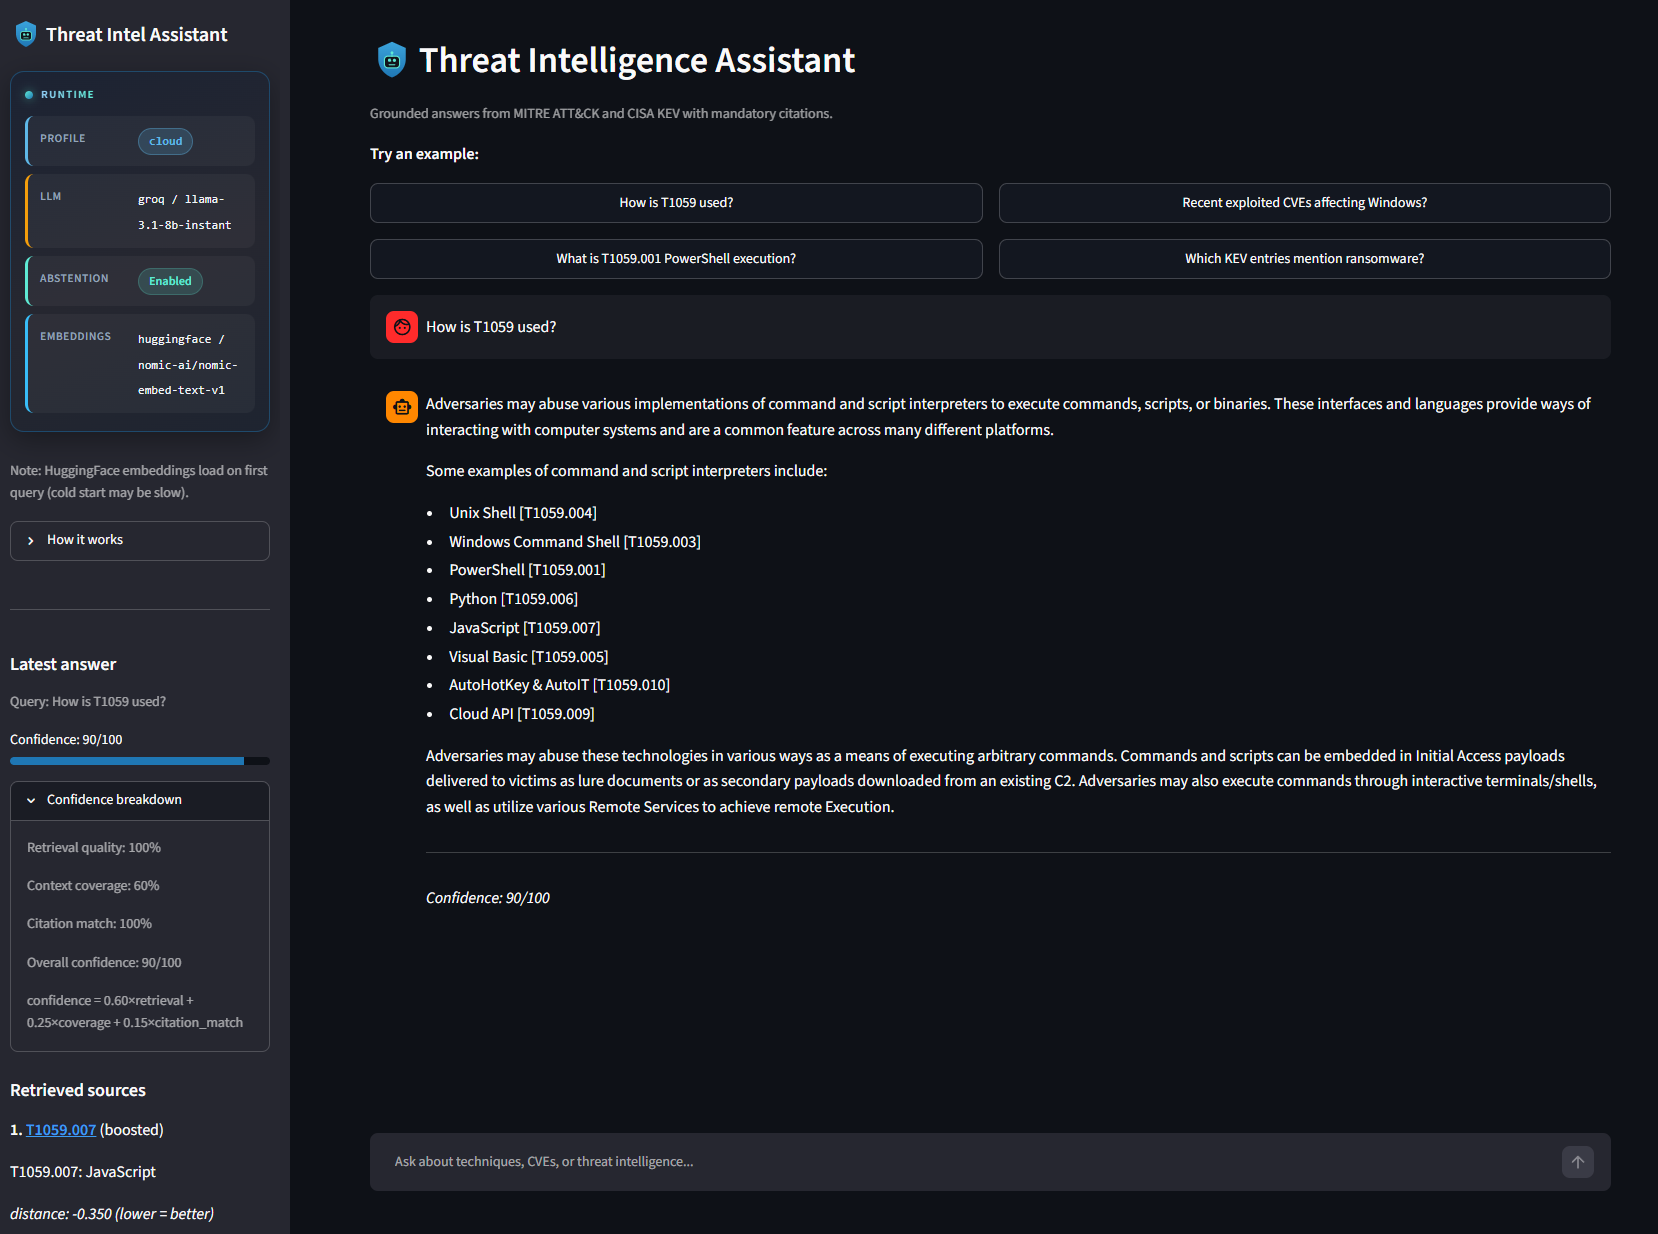
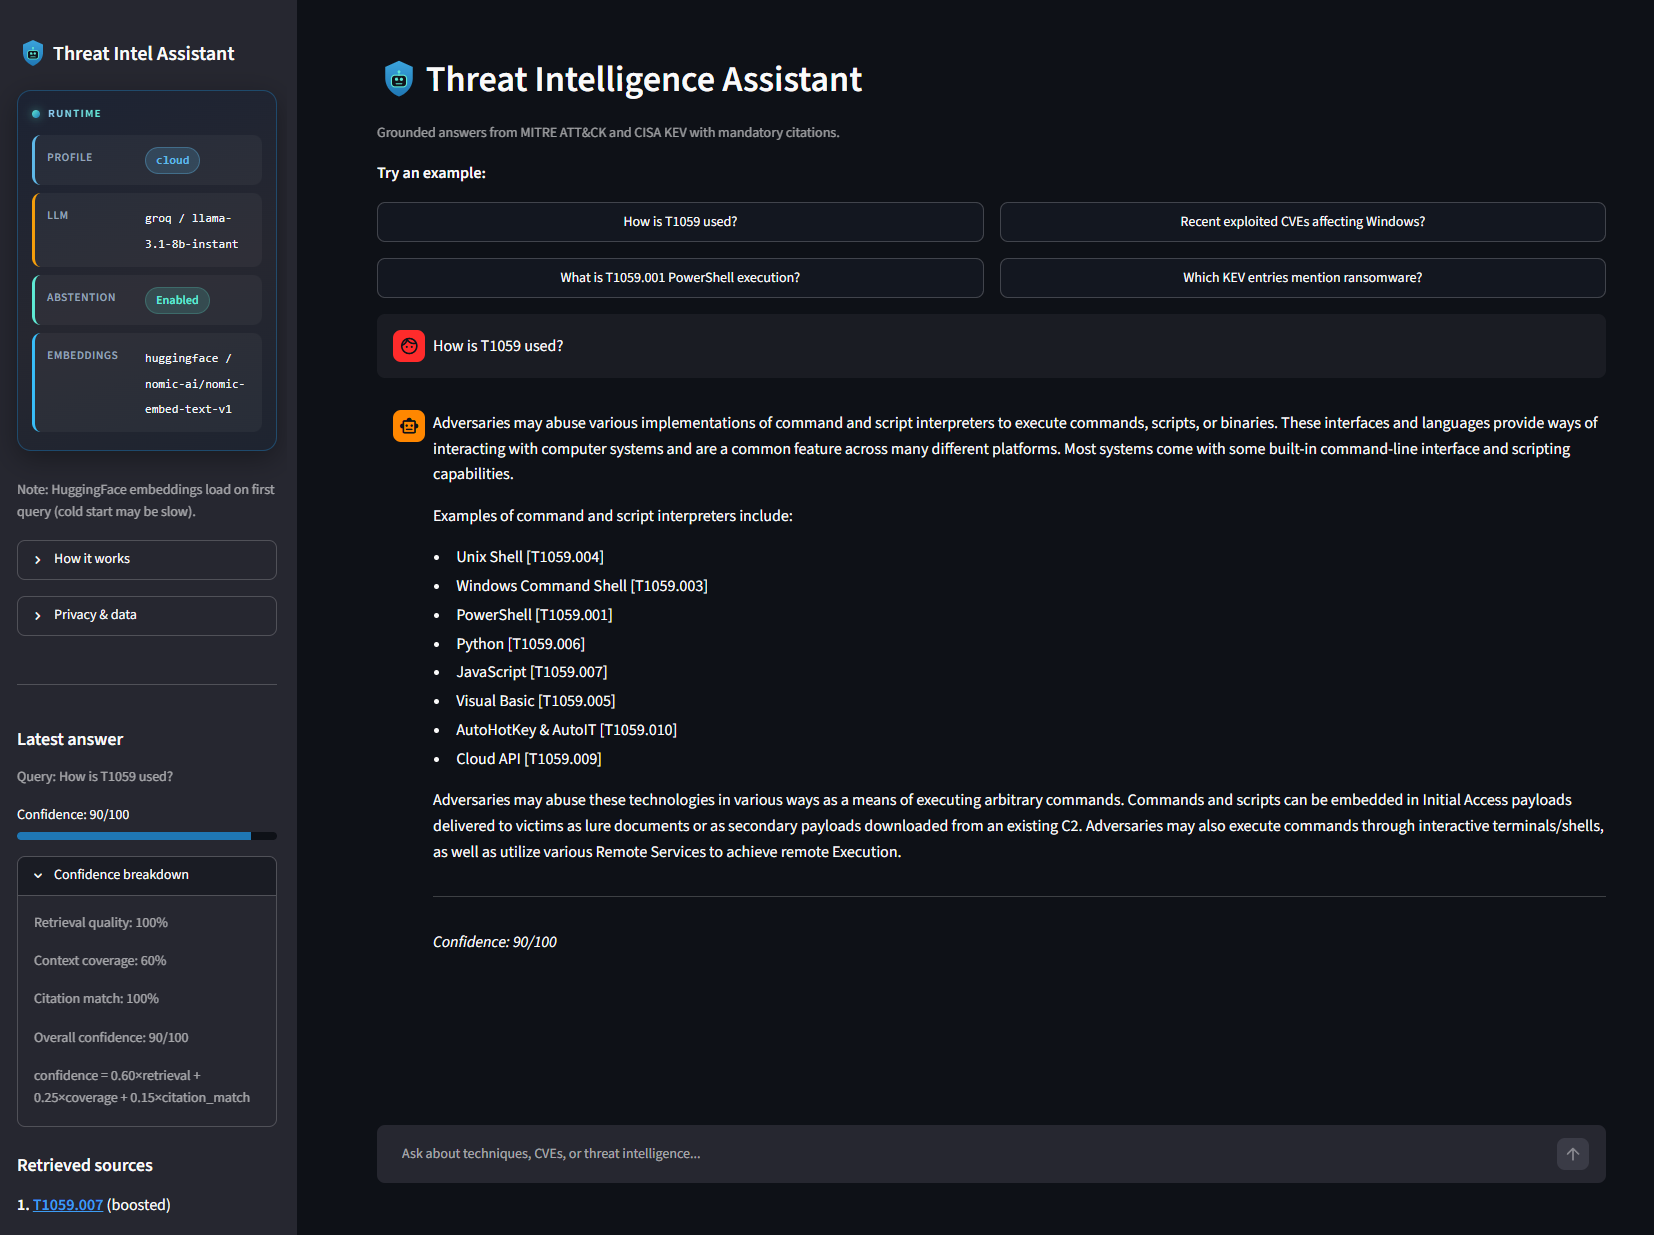
Add privacy disclosures and README badges (v1.1.1)

diff --git a/app.py b/app.py
@@ -218,10 +218,8 @@ def _render_sidebar_how_it_works(settings, manifest: dict | None) -> None:
             "from retrieved sources. **Abstention:** weak evidence → no speculative answer."
         )
         if settings.is_cloud():
-            st.markdown(
-                "**Cloud privacy:** your question and retrieved context are sent to "
-                "**Groq** for inference. No API key is required from you — the hosted "
-                "app is configured by the maintainer."
+            st.caption(
+                "Cloud profile: see **Privacy & data** below for where your questions are sent."
             )
             st.caption("If the service is rate-limited, wait a moment and try again.")
         if manifest:
@@ -233,6 +231,39 @@ def _render_sidebar_how_it_works(settings, manifest: dict | None) -> None:
                 f"{counts.get('mitre_software', 0)} software, "
                 f"{counts.get('cisa_kev', 0)} KEV entries."
             )
+
+
+def _render_sidebar_privacy(settings) -> None:
+    """Data-flow disclosure for cloud demo and local/Ollama deployments."""
+    with st.sidebar.expander("Privacy & data", expanded=False):
+        st.markdown(
+            "This app is **decision support**, not a certified data-processing platform. "
+            "Understand where your input may go:"
+        )
+        if settings.is_cloud():
+            st.markdown(
+                "- **Questions & follow-ups** → **Groq** (answer generation)  \n"
+                "- **Query text** → **HuggingFace** (`nomic-embed-text-v1` embeddings)  \n"
+                "- **Retrieved MITRE/KEV chunks** → included in the Groq prompt  \n"
+                "- **Session chat** → Streamlit memory only; not stored in a project database"
+            )
+            st.markdown(
+                "**Public demo:** Do not submit classified data, credentials, PII, or live "
+                "incident details you cannot share with Groq or HuggingFace. Prefer "
+                "example queries or synthetic analyst-style questions."
+            )
+            st.caption("No API key is required from you — the hosted app is configured by the maintainer.")
+        else:
+            st.markdown(
+                "- **LLM answers** → **Ollama** on your network (when configured)  \n"
+                "- **Query embeddings** → Ollama or HuggingFace per your `.env`  \n"
+                "- **Retrieved chunks** → sent to your local LLM only  \n"
+                "- **Session chat** → Streamlit memory only; not stored in a project database"
+            )
+        st.caption(
+            "Streamlit Cloud and cloud API providers may retain operational logs under "
+            "their own policies. Full table: README Privacy & data section on GitHub."
+        )
 
 
 def _render_sidebar_llm_error() -> None:
@@ -458,6 +489,7 @@ def main() -> None:
     )
     _render_sidebar_config(settings)
     _render_sidebar_how_it_works(settings, manifest)
+    _render_sidebar_privacy(settings)
     _render_sidebar_llm_error()
     st.sidebar.divider()
     _render_sidebar_response(st.session_state.last_response)

diff --git a/README.md b/README.md
@@ -8,9 +8,13 @@
 [![Release](https://img.shields.io/github/v/release/rvong65/threat-intelligence-assistant?label=release)](https://github.com/rvong65/threat-intelligence-assistant/releases)
 [![CI](https://github.com/rvong65/threat-intelligence-assistant/actions/workflows/tests.yml/badge.svg)](https://github.com/rvong65/threat-intelligence-assistant/actions/workflows/tests.yml)
 [![License: MIT](https://img.shields.io/badge/License-MIT-yellow.svg)](LICENSE)
+[![Docker](https://img.shields.io/badge/Docker-Groq%20%7C%20Ollama-2496ED?style=flat-square&logo=docker&logoColor=white)](https://github.com/rvong65/threat-intelligence-assistant#docker)
+[![RAG](https://img.shields.io/badge/RAG-Grounded%20Citations-1f77b4?style=flat-square&logo=langchain&logoColor=white)](https://github.com/rvong65/threat-intelligence-assistant#features)
 [![Streamlit](https://static.streamlit.io/badges/streamlit_badge_black_white.svg)](https://threat-intelligence-rag-assistant.streamlit.app/)
 
 A **retrieval-augmented generation (RAG)** chat application that helps security analysts explore **MITRE ATT&CK** and **CISA Known Exploited Vulnerabilities (KEV)** with **grounded, cited, explainable** answers — not open-web speculation.
+
+> **Privacy (cloud demo):** When you ask a question, the text you submit is sent to **third-party services** (Groq for answer generation; HuggingFace for query embeddings on the public demo). Do not enter classified material, credentials, or live incident details you cannot share with external APIs. See [Privacy & data handling](#privacy-data).
 
 ---
 
@@ -32,7 +36,7 @@ A **retrieval-augmented generation (RAG)** chat application that helps security 
 | 🏗 [Architecture & Design Choices](#architecture-design-choices) | System design summary |
 | ↳ [Full architecture doc](docs/architecture.md) | Detailed system design (Mermaid) |
 | ↳ [Development Journey](#development-journey) | Build timeline diagram |
-| 🛡 [Safety Considerations](#safety-considerations) | Ethics and guardrails |
+| 🛡 [Safety Considerations](#safety-considerations) | Ethics, guardrails, and data privacy |
 | 🔄 [CI/CD](#cicd) | GitHub Actions, Docker CI, Streamlit deploy |
 | 📈 [Project Status & Build Log](#project-status) | Milestone checklist |
 | 📁 [Repository Layout](#repository-layout) | File tree |
@@ -52,6 +56,7 @@ A **retrieval-augmented generation (RAG)** chat application that helps security 
 
 **Before you open the app:**
 - **Cold start:** This app runs on Streamlit Community Cloud and may go to sleep after inactivity. If you see **“Zzzz — This app has gone to sleep due to inactivity”**, click **“Yes, get this app back up!”** to wake it — anyone can do this; you don’t need to contact the maintainer. Startup may take a minute after you click.
+- **Privacy:** The public demo uses a **cloud LLM (Groq)** and **HuggingFace embeddings**. Text you submit leaves your browser for the hosted app and is forwarded to those providers along with retrieved MITRE/KEV context. Use **general or synthetic threat-intel questions only** — not classified data, credentials, or live incident details you cannot share externally. See [Privacy & data handling](#privacy-data).
 
 **Screenshot:**
 
@@ -267,7 +272,8 @@ The codebase supports *optional* CVE detail enrichment via the [NIST NVD API](ht
 
 | Version | Highlights | Release |
 |---------|------|------------|
-| **[v1.1.0](https://github.com/rvong65/threat-intelligence-assistant/releases/tag/v1.1.0)** | Docker + compose, architecture docs, SVG assets, CHANGELOG, Docker CI | [Releases](https://github.com/rvong65/threat-intelligence-assistant/releases) · [CHANGELOG](CHANGELOG.md#110---2026-06-23) |
+| **[v1.1.1](https://github.com/rvong65/threat-intelligence-assistant/releases/tag/v1.1.1)** | Privacy & data disclosures (README + Streamlit sidebar) | [Releases](https://github.com/rvong65/threat-intelligence-assistant/releases/tag/v1.1.1) · [CHANGELOG](CHANGELOG.md#111---2026-06-23) |
+| **[v1.1.0](https://github.com/rvong65/threat-intelligence-assistant/releases/tag/v1.1.0)** | Docker + compose, architecture docs, SVG assets, CHANGELOG, Docker CI | [Releases](https://github.com/rvong65/threat-intelligence-assistant/releases/tag/v1.1.0) · [CHANGELOG](CHANGELOG.md#110---2026-06-23) |
 | **[v1.0.0](https://github.com/rvong65/threat-intelligence-assistant/releases/tag/v1.0.0)** | First tagged release — RAG MVP live on Streamlit Cloud (public since 2026-06-12) | Public since 2026-06-12; tagged 2026-06-18 · [CHANGELOG](CHANGELOG.md#100---2026-06-18) |
 
 Full notes: [CHANGELOG.md](CHANGELOG.md)
@@ -328,10 +334,31 @@ This is a **decision-support** tool, not autonomous threat hunting or incident r
 | **Humility** | Low confidence → disclaimer or hard abstention |
 | **Scope control** | Query guard rejects non–threat-intel prompts |
 | **Transparency** | Sidebar shows retrieved chunks, distances, and confidence formula |
-| **Privacy (cloud)** | Questions + retrieved context sent to Groq for inference; no user API keys |
+| **Privacy (cloud)** | Questions + retrieved MITRE/KEV context sent to Groq; query embeddings via HuggingFace — see [Privacy & data](#privacy-data) |
 | **Known gap** | Long group technique lists vs top-k chunks → citation warnings (documented limitation) |
 
 Always verify critical findings against primary MITRE / NVD / vendor sources. Architecture-level safety: [docs/architecture.md#security-and-safety-architecture-level](docs/architecture.md#security-and-safety-architecture-level).
+
+<a id="privacy-data"></a>
+
+### Privacy & data handling
+
+Threat Intelligence Assistant is designed for **decision support**, not as a certified data-processing platform. Understand where your input goes:
+
+| Data you submit | Where it may be sent | Notes |
+|-----------------|----------------------|-------|
+| Questions & follow-ups | **LLM provider** (Groq on cloud demo, or local Ollama) | Cloud: processed per [Groq Terms](https://groq.com/terms/) and their privacy policy |
+| Query text (retrieval) | **Embedding provider** (HuggingFace `nomic-embed-text-v1` on cloud; Ollama locally) | Cloud cold start downloads the HF model on first query |
+| Retrieved MITRE/KEV chunks | **Same LLM provider** | Grounding context from the committed FAISS index is included in the Groq/Ollama prompt |
+| Multi-turn memory | **Same LLM provider** | Recent turns in the session may be included for follow-up questions |
+| Session chat history | **Streamlit session memory** | Cleared when the session ends; **not** written to a project database by this app |
+| Sidebar exports / citations | Your browser only | Links point to public MITRE / NVD / CISA pages |
+
+**Public Streamlit Cloud demo:** Treat it like any shared SaaS chat UI — **no classified data, credentials, PII, or live production incident details** you cannot share with Groq or HuggingFace. Prefer the built-in **example queries** or synthetic analyst-style questions for testing.
+
+**Sensitive environments:** Run locally or in Docker with **`DEPLOYMENT_PROFILE=local`** and **`LLM_PROVIDER=ollama`** so answer generation stays on your network. Query embeddings can also use Ollama (`EMBEDDING_PROVIDER=ollama`); HuggingFace is not required on that profile.
+
+**Maintainer:** This repo does not intentionally log chat content to disk. Streamlit Community Cloud, Groq, and HuggingFace may retain operational or API logs under their own policies — review their documentation if compliance matters.
 
 ---
 
@@ -373,8 +400,9 @@ Loader and unit tests use **fixtures** or skip when `data/raw/` is absent. FAISS
 | **7** | Validation & deploy — matrix baseline, GitHub repo, Streamlit Cloud | ✅ |
 | **8** | CI — GitHub Actions pytest workflow on push/PR | ✅ |
 | **9** | v1.1 — Docker, architecture docs, assets, CHANGELOG, Docker CI | ✅ |
+| **10** | v1.1.1 — Privacy & data disclosures (README + Streamlit sidebar) | ✅ |
 
-**Current status:** ✅ v1.1 complete — live on Streamlit Cloud; pytest + Docker CI on `main`
+**Current status:** ✅ v1.1.1 — MVP + packaging + privacy disclosures
 
 ---
 

diff --git a/docs/architecture.md b/docs/architecture.md
@@ -216,18 +216,21 @@ flowchart LR
 | **Overconfident wrong answers** | Confidence score + hard abstention below threshold |
 | **Off-topic / abuse** | Query guard before retrieval and LLM calls |
 | **API key exposure** | `.env` and `secrets.toml` gitignored; Groq key only in Streamlit Secrets / env |
-| **Cloud inference privacy** | Questions + retrieved context sent to Groq; documented in UI “How it works” |
+| **Cloud inference privacy** | Questions + retrieved MITRE/KEV context sent to Groq; query embeddings via HuggingFace on cloud profile — see README [Privacy & data](../README.md#privacy-data) |
 | **Deserialization risk** | FAISS `allow_dangerous_deserialization=True` only for maintainer-built index in repo |
 | **Decision support only** | Not autonomous IR or threat hunting; verify against primary sources |
+
+**Privacy:** Question text and retrieved MITRE/KEV context are transmitted to configured LLM and embedding APIs (Groq, HuggingFace, or local Ollama). This app does not persist queries to a project database; see README [Privacy & data](../README.md#privacy-data).
 
 ---
 
 ## Version
 
-Document version: v1.1.0 (aligned with [CHANGELOG.md](../CHANGELOG.md#110---2026-06-23))
+Document version: v1.1.1 (aligned with [CHANGELOG.md](../CHANGELOG.md#111---2026-06-23))
 
 | Release | Architecture highlights |
 |---------|------------|
+| **v1.1.1** | Privacy & data disclosures — README Safety section, Streamlit sidebar expander |
 | **v1.1.0** | Engineering maturity — Docker, `docs/architecture.md`, SVG assets, CHANGELOG, Docker CI |
 | **v1.0.0** | RAG MVP — MITRE + KEV index, Streamlit Cloud, Groq cloud profile, pytest CI |
 

diff --git a/CHANGELOG.md b/CHANGELOG.md
@@ -4,6 +4,13 @@ All notable changes to this project are documented in this file.
 
 Release dates reflect when a version was tagged on GitHub (Release), not necessarily when the repo first went public or when each feature was first committed.
 
+## [1.1.1] - 2026-06-23
+
+### Added
+
+- **Privacy & data** disclosures in README (Safety section) and Streamlit sidebar expander
+- Live Demo privacy note for public Groq-based Streamlit Cloud demo
+
 ## [1.1.0] - 2026-06-23
 
 ### Added
@@ -41,5 +48,6 @@ First **tagged** release. The repository and Streamlit app were **public since 2
 - pytest suite (49 tests) and `validation_matrix.py` (11 PASS / 1 WARN / 0 FAIL on cloud)
 
 
+[1.1.1]: https://github.com/rvong65/threat-intelligence-assistant/releases/tag/v1.1.1
 [1.1.0]: https://github.com/rvong65/threat-intelligence-assistant/releases/tag/v1.1.0
 [1.0.0]: https://github.com/rvong65/threat-intelligence-assistant/releases/tag/v1.0.0
